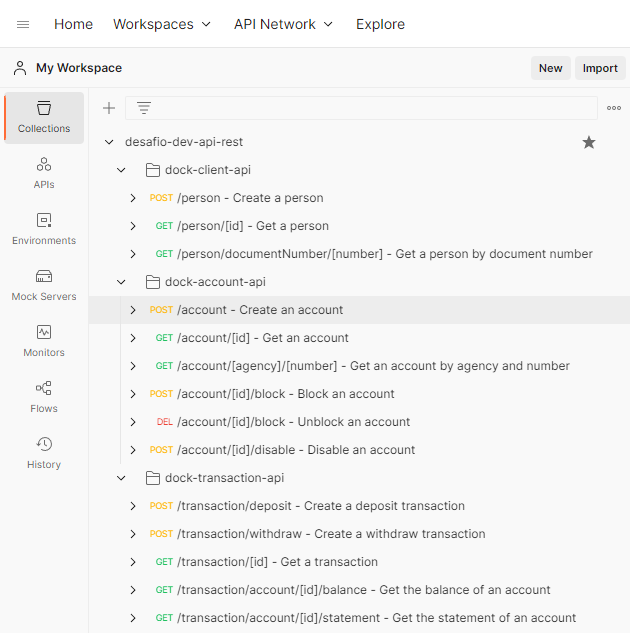
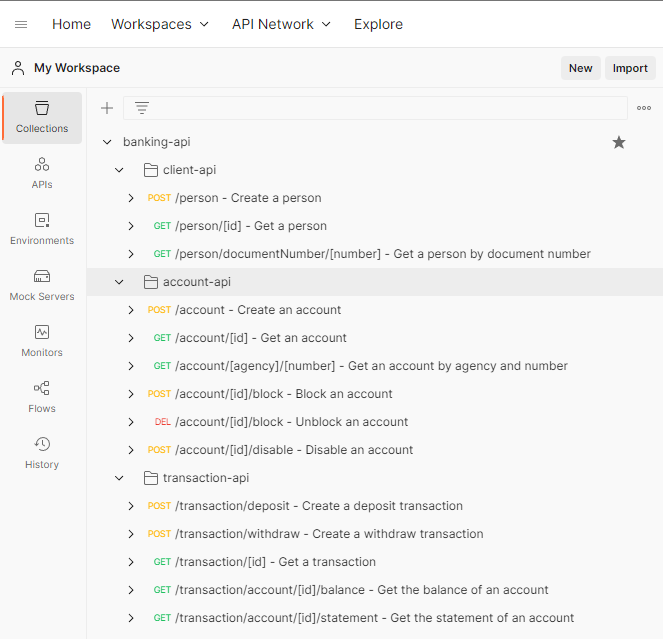
Updating project's name in documentations

diff --git a/client-api/readme.md b/client-api/readme.md
@@ -12,7 +12,7 @@ GET    /person/[id] - Consultar uma pessoa.
 GET    /person/documentNumber/[documentNumber] - Consultar uma pessoa via CPF.
 ```
 
-A documentação completa desse microsserviço está disponível [aqui](https://documenter.getpostman.com/view/7620522/2s8ZDa1LoC#408c0205-a206-490e-863d-d2e630656ccb).
+A documentação completa desse microsserviço está disponível [aqui](https://documenter.getpostman.com/view/7620522/2s8ZDcyzdN#303fdcea-be84-4939-a5f0-29ac0aa49fde).
 ## Variáveis de Ambiente
 
 Para rodar esse projeto, você vai precisar adicionar as seguintes variáveis de ambiente no seu `.env`

diff --git a/account-api/readme.md b/account-api/readme.md
@@ -15,7 +15,7 @@ DELETE /account/[id]/block - Desbloquear uma conta.
 POST   /account/[id]/disable - Desativar uma conta.
 ```
 
-A documentação completa desse microsserviço está disponível [aqui](https://documenter.getpostman.com/view/7620522/2s8ZDa1LoC#deef9887-d802-4982-bda5-17c164bb19de).
+A documentação completa desse microsserviço está disponível [aqui](https://documenter.getpostman.com/view/7620522/2s8ZDcyzdN#9055fec4-7792-458d-a43d-4f86bacc14cf).
 ## Variáveis de Ambiente
 
 Para rodar esse projeto, você vai precisar adicionar as seguintes variáveis de ambiente no seu `.env`

diff --git a/transaction-api/readme.md b/transaction-api/readme.md
@@ -13,7 +13,7 @@ POST   /transaction/account/[id]/balance - Consultar o saldo de uma conta.
 POST   /transaction/account/[id]/statement - Consultar o extrato de uma conta.
 ```
 
-A documentação completa desse microsserviço está disponível [aqui](https://documenter.getpostman.com/view/7620522/2s8ZDa1LoC#bbe864e9-5a02-4d51-b39b-afc23285f75f).
+A documentação completa desse microsserviço está disponível [aqui](https://documenter.getpostman.com/view/7620522/2s8ZDcyzdN#5a1edf1d-0ae7-41a8-a614-8876ff562177).
 
 ## Variáveis de Ambiente
 

diff --git a/banking-api-gateway/readme.md b/banking-api-gateway/readme.md
@@ -11,7 +11,7 @@ Request   /account - Redireciona para account-api/account.
 Request   /transaction - Redireciona para transaction-api/transaction.
 ```
 
-A documentação completa desse microsserviço está disponível [aqui](https://documenter.getpostman.com/view/7620522/2s8ZDa1LoC).
+A documentação completa desse microsserviço está disponível [aqui](https://documenter.getpostman.com/view/7620522/2s8ZDcyzdN).
 
 ## Rodando localmente
 

diff --git a/postman/readme.md b/postman/readme.md
@@ -44,4 +44,4 @@ Para realizar os testes, contanto que já tenha [importado](#importando) a colle
 
 ### Documentação
 
-A documentação da API é gerada via Postman que está disponível [aqui](https://documenter.getpostman.com/view/7620522/2s8ZDa1LoC).
+A documentação da API é gerada via Postman que está disponível [aqui](https://documenter.getpostman.com/view/7620522/2s8ZDcyzdN).

diff --git a/readme.md b/readme.md
@@ -38,7 +38,7 @@ GET  /transaction/account/[id]/statement - Consultar extrato bancário.
 ...
 ```
 
-Documentação completa está disponível [aqui](https://documenter.getpostman.com/view/7620522/2s8ZDa1LoC).
+Documentação completa está disponível [aqui](https://documenter.getpostman.com/view/7620522/2s8ZDcyzdN).
 
 ## Rodando localmente
 
